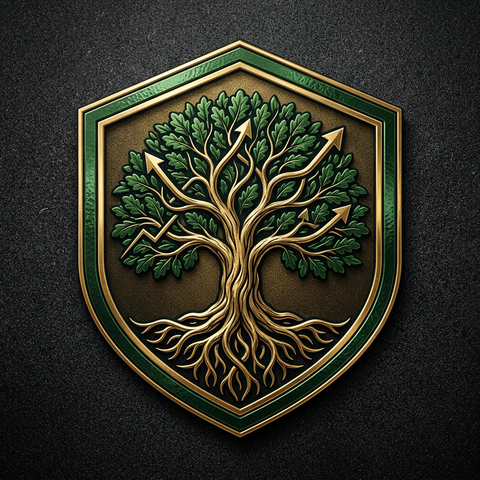
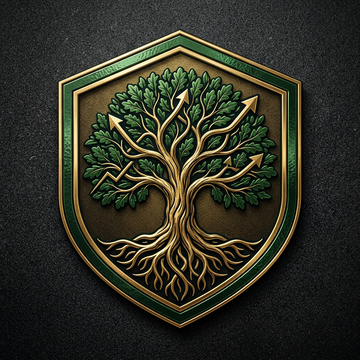
Rebuild the letter header: 112px cream disc, cropped crest overflow like the landing lockup.

diff --git a/server/src/mailer.js b/server/src/mailer.js
@@ -135,19 +135,17 @@ export function letterLayout(title, contentHtml) {
   <table role="presentation" width="100%" cellpadding="0" cellspacing="0" style="background:#F5F2E9;padding:32px 12px;">
     <tr><td align="center">
       <table role="presentation" width="560" cellpadding="0" cellspacing="0" style="background:#ffffff;border:1px solid #e5e0d2;border-radius:14px;overflow:hidden;">
-        <tr><td style="background:#1C412C;padding:22px 28px;">
-          <table role="presentation" cellpadding="0" cellspacing="0"><tr>
-            <td style="vertical-align:middle;padding-right:18px;">
-              <img src="${SITE_URL.replace(/\/$/, '')}/email-crest.png?v=5" width="240" height="240" alt="Oak Haven Yield" style="display:block;width:240px;height:240px;max-width:240px;border:0;border-radius:120px;background:#F5F2E9;">
-            </td>
-            <td style="vertical-align:middle;">
-              <div style="line-height:1.1;">
-                <span style="color:#F5F2E9;font-family:Georgia,'Times New Roman',serif;font-size:24px;font-weight:bold;">Oak Haven</span>
-                <span style="color:#B08B48;font-family:Georgia,'Times New Roman',serif;font-size:24px;font-weight:bold;font-style:italic;"> Yield</span>
-              </div>
-              <div style="color:#cfd8d2;font-size:11px;letter-spacing:2px;margin-top:2px;font-family:Arial,Helvetica,sans-serif;">Investment Advisory</div>
-            </td>
-          </tr></table>
+        <tr><td style="background:#1C412C;padding:28px 24px 24px;" align="center">
+          <table role="presentation" cellpadding="0" cellspacing="0" align="center" width="112" height="112" style="width:112px;height:112px;background:#F5F2E9;border-radius:56px;">
+            <tr><td align="center" valign="middle" width="112" height="112" style="width:112px;height:112px;overflow:hidden;border-radius:56px;line-height:0;font-size:0;">
+              <img src="${SITE_URL.replace(/\/$/, '')}/email-crest.png?v=7" width="168" height="168" alt="Oak Haven Yield" style="display:block;width:168px;height:168px;margin:-28px 0 0 -28px;border:0;">
+            </td></tr>
+          </table>
+          <div style="line-height:1.15;margin-top:14px;">
+            <span style="color:#F5F2E9;font-family:Georgia,'Times New Roman',serif;font-size:26px;font-weight:bold;">Oak Haven</span>
+            <span style="color:#B08B48;font-family:Georgia,'Times New Roman',serif;font-size:26px;font-weight:bold;font-style:italic;"> Yield</span>
+          </div>
+          <div style="color:#cfd8d2;font-size:11px;letter-spacing:2px;margin-top:4px;font-family:Arial,Helvetica,sans-serif;">Investment Advisory</div>
         </td></tr>
         <tr><td style="height:3px;background:#B08B48;"></td></tr>
         <tr><td style="padding:28px;font-family:Arial,Helvetica,sans-serif;">
